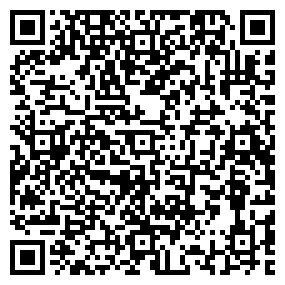
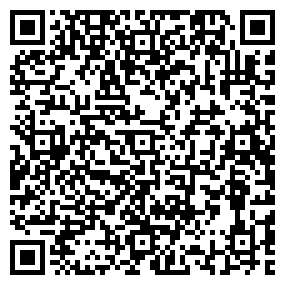
更新安装包及下载二维码

diff --git a/README.md b/README.md
@@ -2,7 +2,7 @@
 
 **1、点击下方链接下载安装**
 
-[点击下载](https://github.com/EDITeam/TaskManagementDownload/releases/download/v0.1.0/v0.1.0.apk)
+[点击下载](https://github.com/EDITeam/TaskManagementDownload/releases/download/v0.1.1/v0.1.1.apk)
 
 **2、浏览器扫描下方二维码安装**
 
